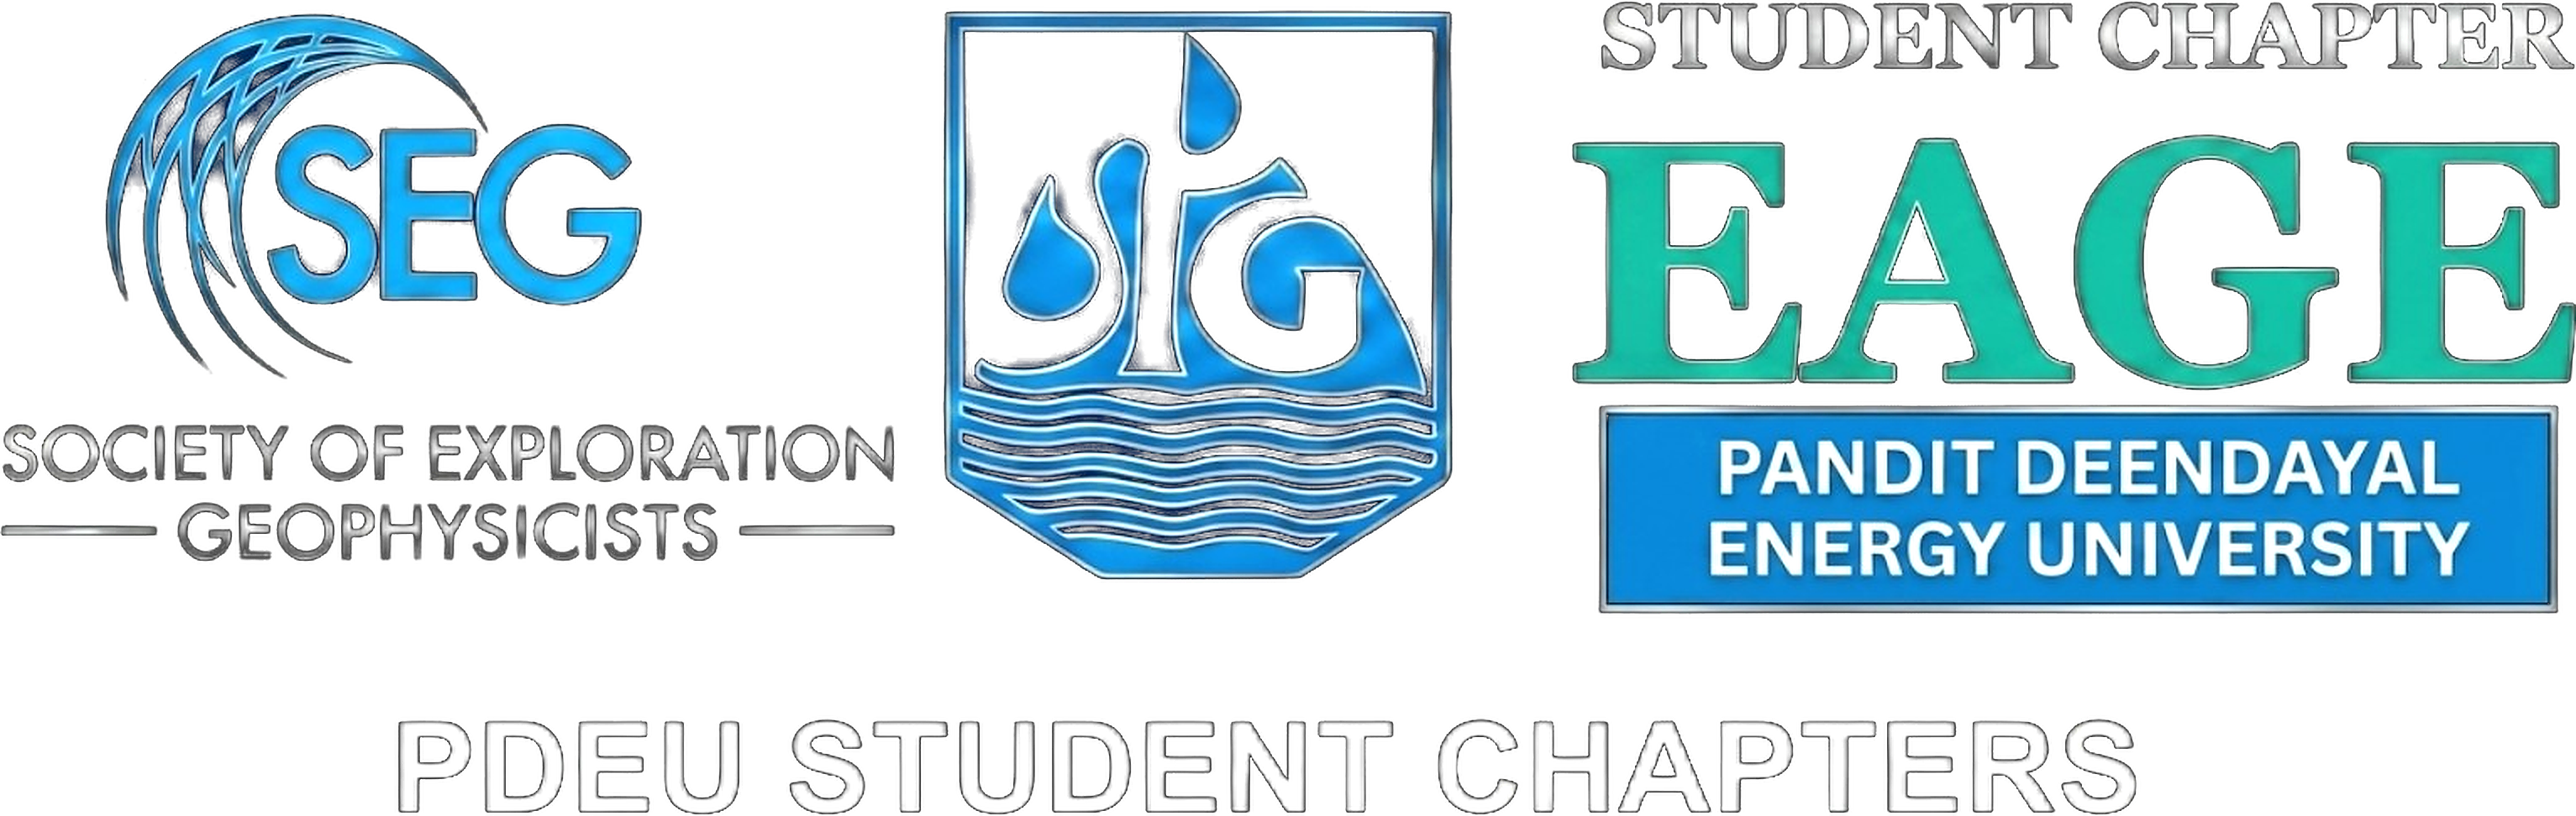
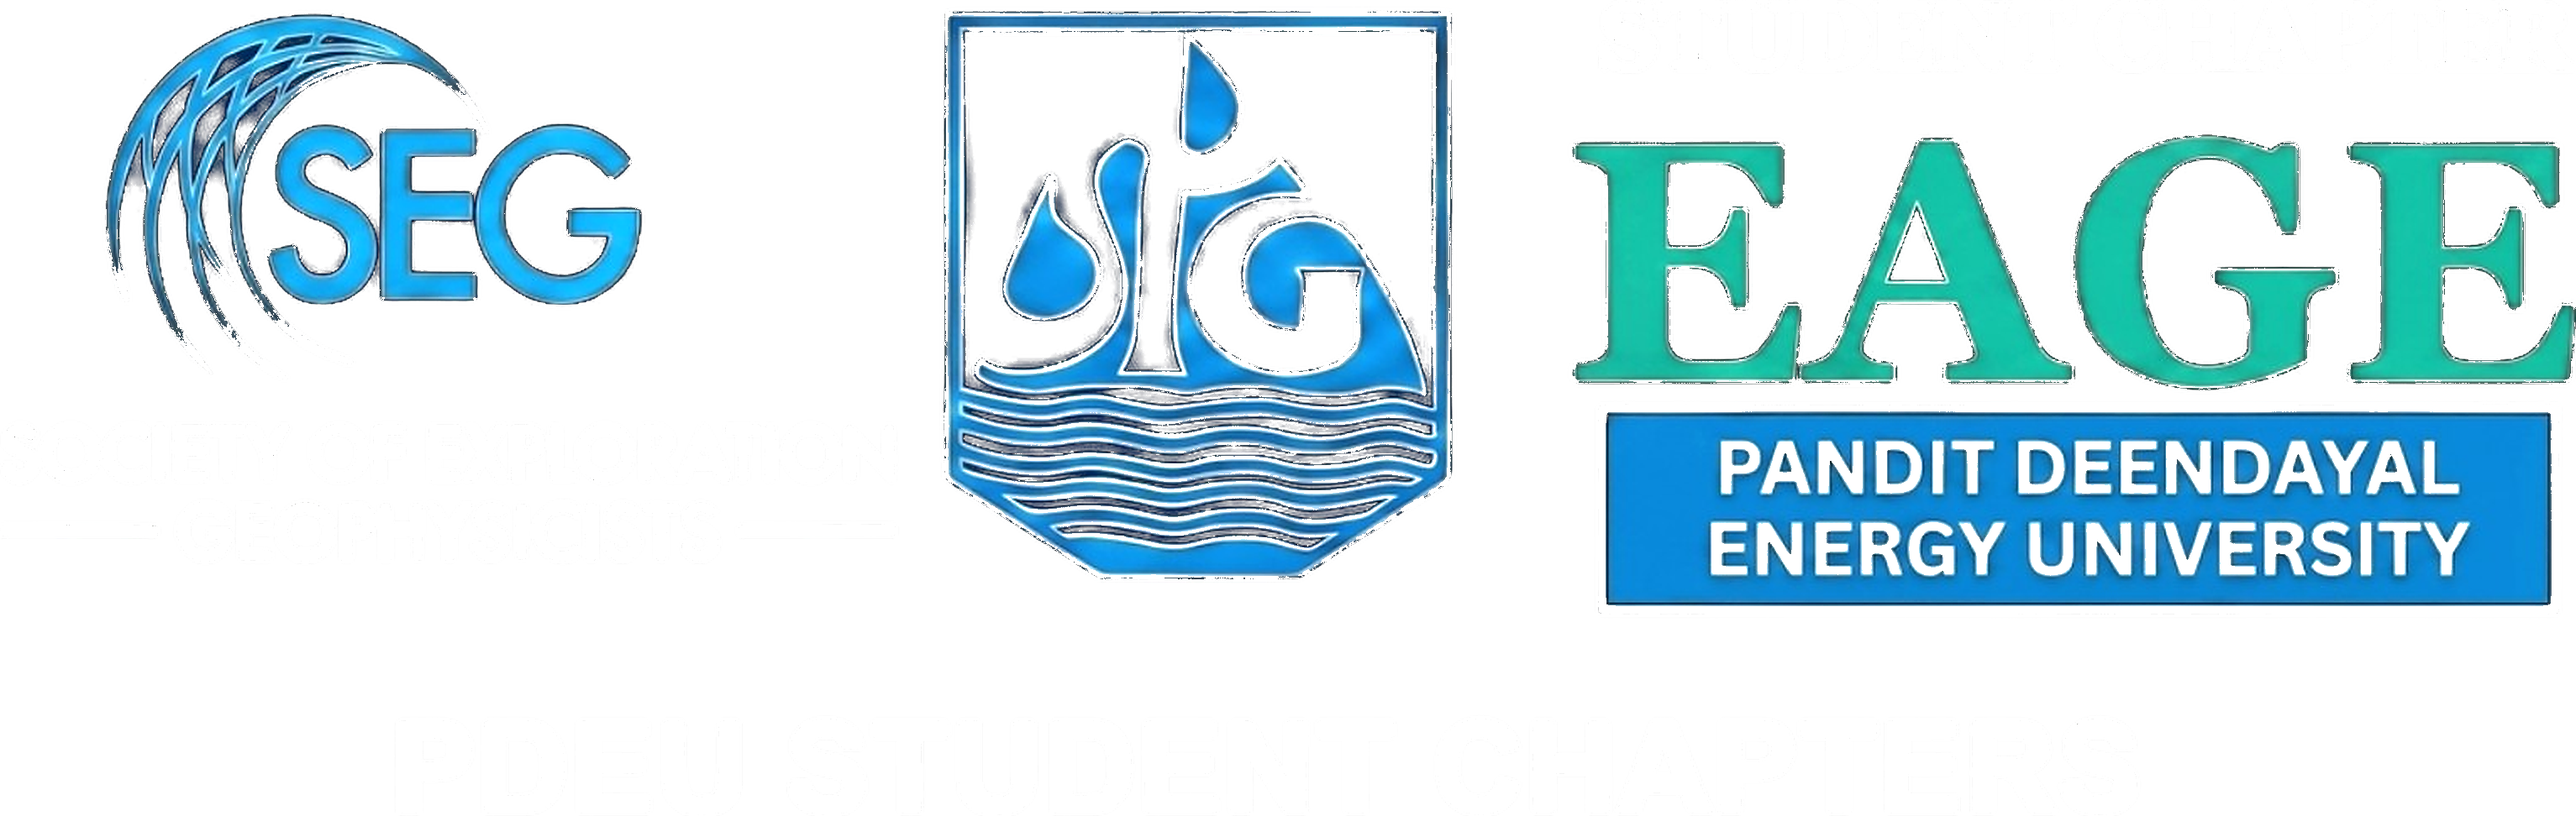
Add files via upload

diff --git a/app/globals.css b/app/globals.css
@@ -1468,3 +1468,113 @@ html, body { overflow-x: hidden; }
     text-wrap: pretty !important;
   }
 }
+
+/* FINAL MOBILE-ONLY POLISH — equal hero-logo spacing + contained registration cards */
+@media (max-width: 720px) {
+  /* Three equal columns keep PDEU, ICPHD and SOET evenly spaced on phones. */
+  .hero-inner .top-logos {
+    width: 100% !important;
+    min-height: 82px !important;
+    display: grid !important;
+    grid-template-columns: repeat(3, minmax(0, 1fr)) !important;
+    column-gap: 10px !important;
+    align-items: center !important;
+    justify-items: center !important;
+  }
+
+  .hero-inner .top-logos .pdeu-main-logo,
+  .hero-inner .top-logos .hero-icphd-logo,
+  .hero-inner .top-logos .hero-soet-logo {
+    justify-self: center !important;
+    margin: 0 !important;
+  }
+
+  .hero-inner .top-logos .pdeu-main-logo {
+    width: min(100%, 150px) !important;
+    height: 58px !important;
+  }
+
+  .hero-inner .top-logos .hero-icphd-logo {
+    width: 64px !important;
+    height: 64px !important;
+  }
+
+  .hero-inner .top-logos .hero-soet-logo {
+    width: 68px !important;
+    height: 68px !important;
+    flex-basis: auto !important;
+  }
+
+  /* Keep both Registration and Abstract Submission cards safely inside
+     the phone viewport with a consistent side margin. */
+  .registration {
+    width: min(calc(100% - 24px), 620px) !important;
+    max-width: 620px !important;
+    margin-left: auto !important;
+    margin-right: auto !important;
+    box-sizing: border-box !important;
+    padding-left: 0 !important;
+    padding-right: 0 !important;
+  }
+
+  .registration-grid {
+    width: 100% !important;
+    max-width: 100% !important;
+    gap: 14px !important;
+  }
+
+  .registration-grid article {
+    width: 100% !important;
+    max-width: 100% !important;
+    padding: 18px 14px !important;
+    border-radius: 17px !important;
+    box-sizing: border-box !important;
+  }
+}
+
+@media (max-width: 430px) {
+  .hero-inner .top-logos {
+    column-gap: 7px !important;
+  }
+
+  .hero-inner .top-logos .pdeu-main-logo {
+    width: min(100%, 132px) !important;
+    height: 54px !important;
+  }
+
+  .hero-inner .top-logos .hero-icphd-logo {
+    width: 60px !important;
+    height: 60px !important;
+  }
+
+  .hero-inner .top-logos .hero-soet-logo {
+    width: 64px !important;
+    height: 64px !important;
+  }
+
+  .registration {
+    width: calc(100% - 20px) !important;
+  }
+
+  .registration-grid article {
+    padding: 17px 12px !important;
+  }
+}
+
+/* FINAL MOBILE-ONLY REQUEST — keep hero conference title on one line */
+@media (max-width: 720px) {
+  .hero .hero-title-block h2 {
+    white-space: nowrap !important;
+    font-size: clamp(0.70rem, 2.65vw, 1.05rem) !important;
+    letter-spacing: 0.015em !important;
+    line-height: 1.15 !important;
+    width: 100% !important;
+    max-width: none !important;
+    overflow: visible !important;
+  }
+}
+/* Latest spacing polish: reduce the large gap between About and Conference Highlights on desktop only. */
+@media (min-width: 861px) {
+  .about { padding-bottom: 36px !important; }
+  .conference-content { padding-top: 36px !important; }
+}

diff --git a/CHANGES-LATEST.md b/CHANGES-LATEST.md
@@ -10,3 +10,9 @@
 - Final request: prevented hero conference title from overflowing/clashing by allowing balanced centered wrapping.
 - Final request: changed Important Dates table colors to match the Registration fee table palette.
 - Final request: kept the supplied high-resolution SEG/SPG/EAGE transparent chapter artwork in the chapter card.
+
+- Mobile hero conference title forced to a single line with responsive sizing; desktop unchanged.
+- SEG/SPG/EAGE chapter artwork updated so textual elements render white while retaining colored logo marks.
+- Networking & Branding illustration intentionally left unchanged pending the user-supplied replacement artwork.
+
+- Reduced the excessive vertical whitespace between the About section and Conference Highlights on desktop. Only the desktop spacing was adjusted; the existing mobile-specific layout was left intact.
